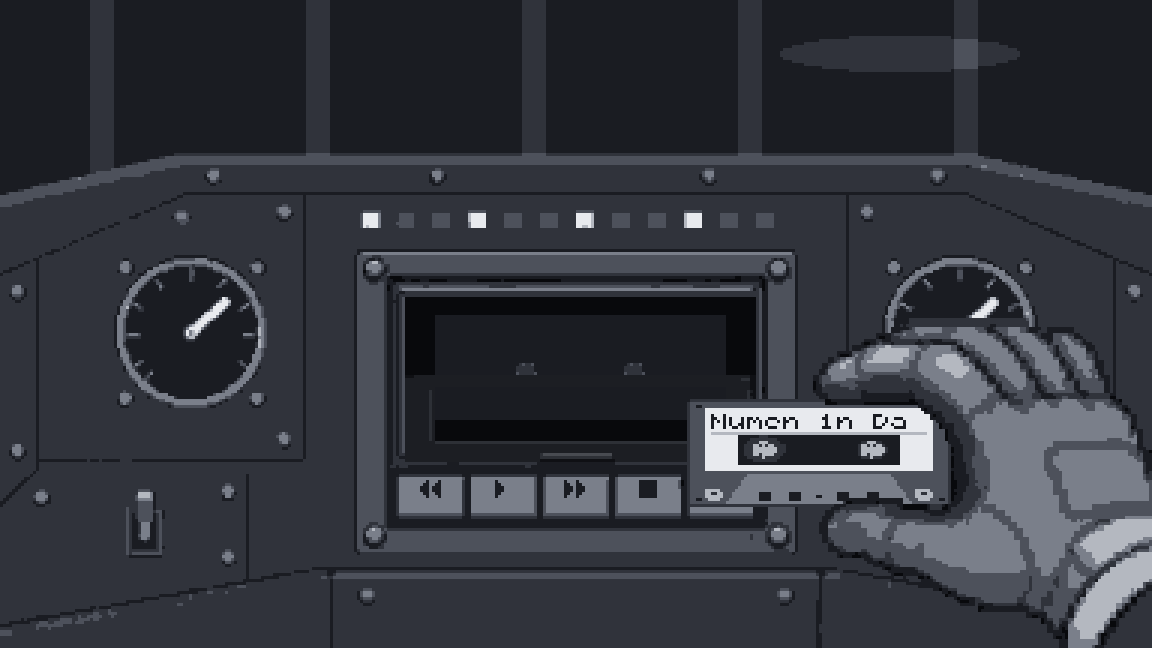
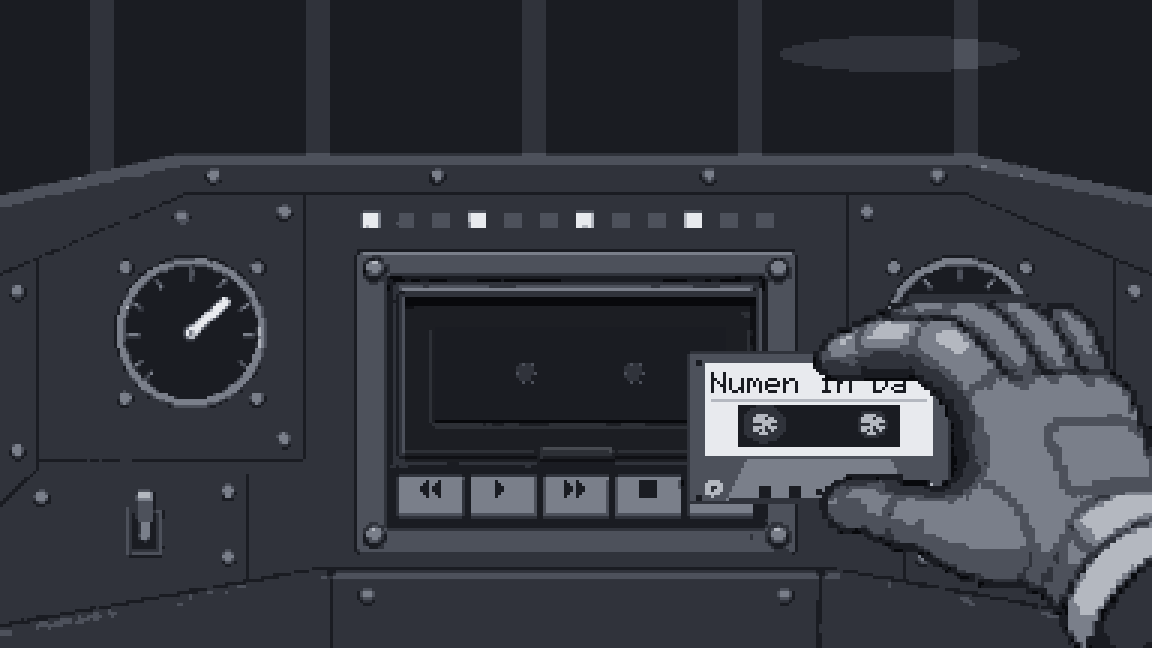
Tilt the deck's door less so the cassette keeps its size
At 60 degrees the door and the tape in its holder were squashed to half height, and the
tape looked like it shrank as it went in (Brad's play-test). 25 degrees keeps the tape
within 5 px of its height and the label readable; the open door shows as a dark gap
along its top edge.

Claude-Session: https://claude.ai/code/session_01JHfHGCLy1xFvhSVxtBfjqe

Changed region(s): [[0.5938, 0.4321, 1.0, 1.0], [0.375, 0.6481, 0.5938, 0.7099]]

diff --git a/packages/client/src/game/hangar.ts b/packages/client/src/game/hangar.ts
@@ -138,8 +138,12 @@ const PLAY = 1;
 /** The deck's door, hinged along its bottom edge, and the window in it. */
 const DOOR = new Rectangle(135, 97, 117, 57);
 const DECK_WINDOW = new Rectangle(145, 105, 97, 35);
-/** How far the door tilts open, in radians (a guess: no source gives the angle). */
-const DOOR_ANGLE = Math.PI / 3;
+/**
+ * How far the door tilts open, in radians (a guess: no source gives the angle). Kept
+ * shallow: the tilt is drawn by squashing the door and the tape in it, and at 60 degrees
+ * the tape looked like it shrank (Brad, 2026-11-10).
+ */
+const DOOR_ANGLE = (25 * Math.PI) / 180;
 const EJECT = 4;
 /**
  * The cassette, in a compact cassette's proportions (4 by 2.5 inches: Wikipedia, "Cassette

diff --git a/docs/DEVELOPMENT.md b/docs/DEVELOPMENT.md
@@ -943,9 +943,10 @@ Run `pnpm dev` and open the URL it prints.
   differ: US patent 4087844 hinges its door at the top. The bottom hinge, the spring that
   opens it, and the button that releases it follow the outer door of US patent 4607301 (a
   car stereo); that door doesn't hold the cassette, so the holder is the intro's own, and
-  the opening angle, 60 degrees (`DOOR_ANGLE`), is a guess. The tilt is drawn by squashing
-  the door and the tape in it towards the hinge (`door.png`, cut from the cockpit by
-  `tools/hangar-art.py`, its window clear). While the level is still loading, the hand waits over
+  the opening angle, 25 degrees (`DOOR_ANGLE`), is a guess. The tilt is drawn by squashing
+  the door (`door.png`, cut from the cockpit by `tools/hangar-art.py`, its window clear)
+  and the tape in it towards the hinge; at 60 degrees the tape looked like it shrank
+  (Brad, 2026-11-10). While the level is still loading, the hand waits over
   Play (`introTime`). The run starts with the canopy frame coming down over the window,
   the level showing through the glass, then the cockpit dropping out of view (`drawWipe`,
   1 s of song time); meanwhile the level floods from black and white into colour, one step
